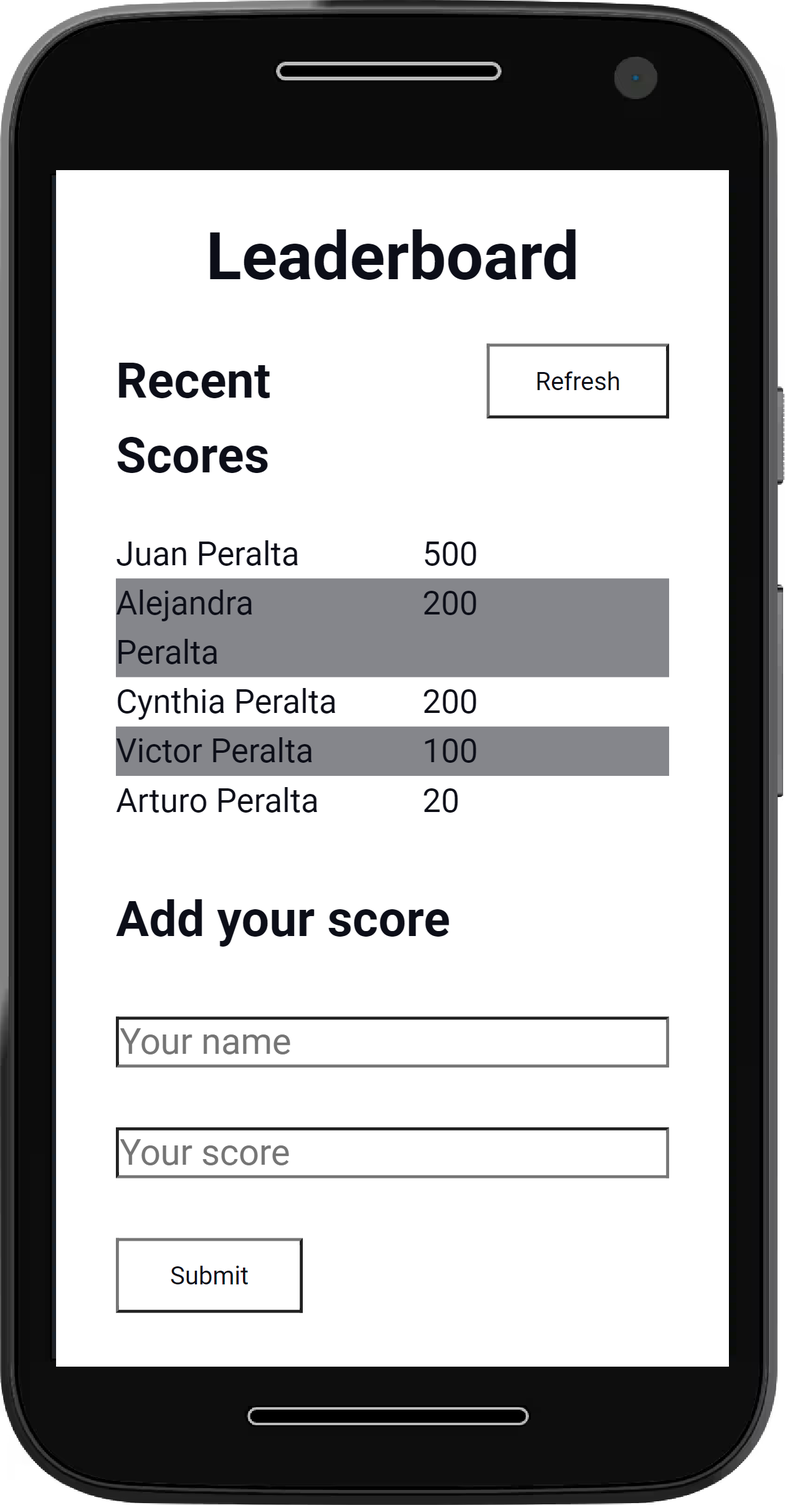
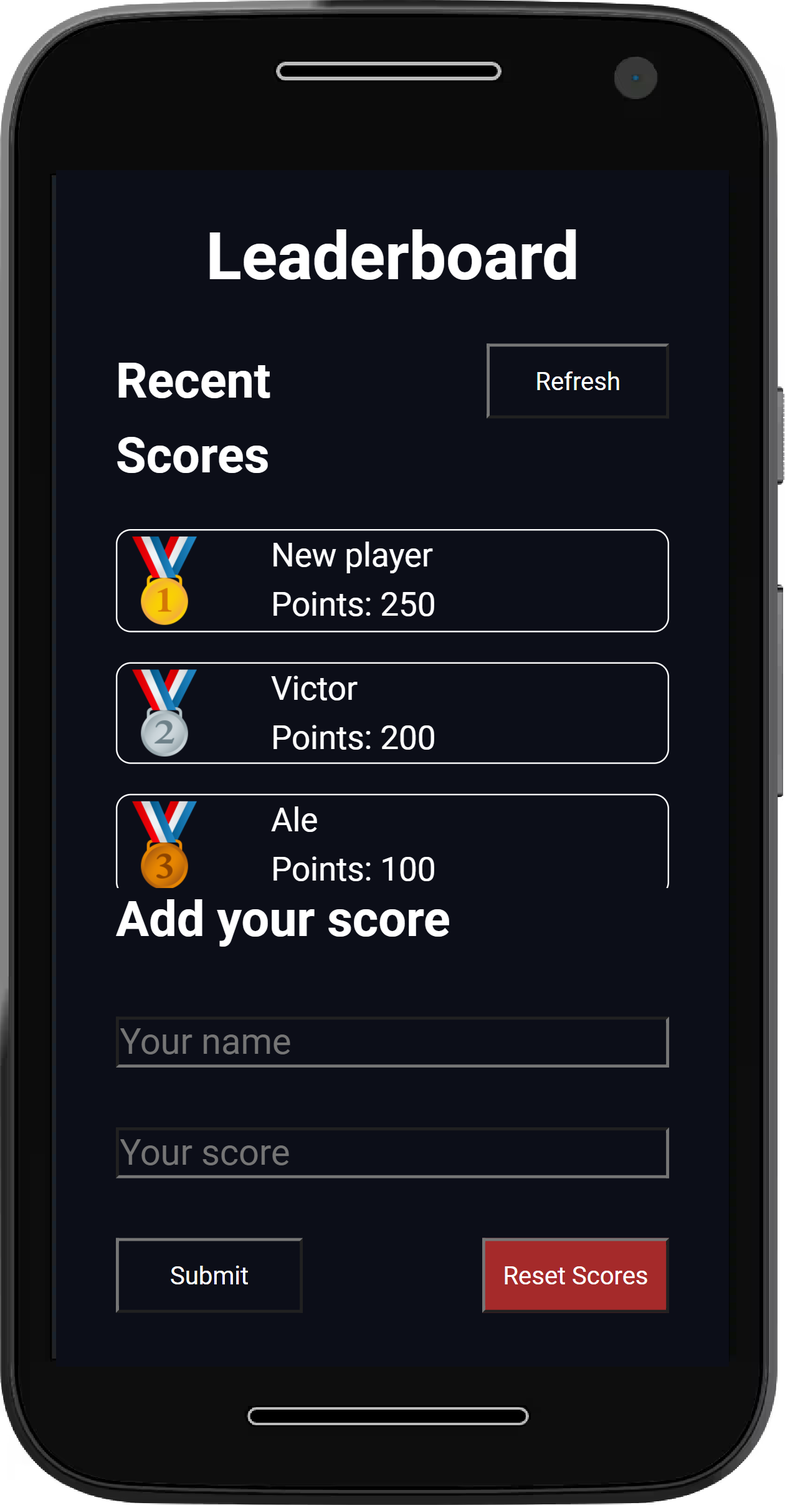
Add reset scores button functionality.
Update readme

modified:   desktop.png
modified:   dist/index.html
modified:   dist/main.js
modified:   mobile.png
modified:   src/app.js
modified:   src/dataProvider.js
modified:   src/index.css
modified:   src/index.html
modified:   tablet.png

diff --git a/dist/main.js b/dist/main.js
@@ -16,7 +16,7 @@
   \*************************************************************/
 /***/ ((module, __webpack_exports__, __webpack_require__) => {
 
-eval("__webpack_require__.r(__webpack_exports__);\n/* harmony export */ __webpack_require__.d(__webpack_exports__, {\n/* harmony export */   \"default\": () => (__WEBPACK_DEFAULT_EXPORT__)\n/* harmony export */ });\n/* harmony import */ var _node_modules_css_loader_dist_runtime_noSourceMaps_js__WEBPACK_IMPORTED_MODULE_0__ = __webpack_require__(/*! ../node_modules/css-loader/dist/runtime/noSourceMaps.js */ \"./node_modules/css-loader/dist/runtime/noSourceMaps.js\");\n/* harmony import */ var _node_modules_css_loader_dist_runtime_noSourceMaps_js__WEBPACK_IMPORTED_MODULE_0___default = /*#__PURE__*/__webpack_require__.n(_node_modules_css_loader_dist_runtime_noSourceMaps_js__WEBPACK_IMPORTED_MODULE_0__);\n/* harmony import */ var _node_modules_css_loader_dist_runtime_api_js__WEBPACK_IMPORTED_MODULE_1__ = __webpack_require__(/*! ../node_modules/css-loader/dist/runtime/api.js */ \"./node_modules/css-loader/dist/runtime/api.js\");\n/* harmony import */ var _node_modules_css_loader_dist_runtime_api_js__WEBPACK_IMPORTED_MODULE_1___default = /*#__PURE__*/__webpack_require__.n(_node_modules_css_loader_dist_runtime_api_js__WEBPACK_IMPORTED_MODULE_1__);\n// Imports\n\n\nvar ___CSS_LOADER_EXPORT___ = _node_modules_css_loader_dist_runtime_api_js__WEBPACK_IMPORTED_MODULE_1___default()((_node_modules_css_loader_dist_runtime_noSourceMaps_js__WEBPACK_IMPORTED_MODULE_0___default()));\n___CSS_LOADER_EXPORT___.push([module.id, \"@import url(https://fonts.googleapis.com/css2?family=Roboto:ital,wght@0,300;0,400;0,500;0,700;1,400;1,500&display=swap);\"]);\n// Module\n___CSS_LOADER_EXPORT___.push([module.id, \"/*\\n  Reset code\\n*/\\n*,\\n*::before,\\n*::after {\\n  margin: 0;\\n  padding: 0;\\n  box-sizing: border-box;\\n}\\n\\nbody {\\n  font-family: Roboto, Arial, Helvetica, sans-serif;\\n  font-size: 1.1rem;\\n  line-height: 1.5;\\n  min-height: 90vh;\\n}\\n\\nbody,\\nh1,\\nh2,\\nh3,\\nh4,\\nh5,\\nh6,\\np,\\nul,\\nli {\\n  margin: 0;\\n  padding: 0;\\n}\\n\\nbutton,\\ninput {\\n  font-family: inherit;\\n  background-color: inherit;\\n  color: inherit;\\n}\\n\\n/*\\n  Custom properties\\n*/\\n:root {\\n  --clr-dark: 230 35% 7%;\\n  --clr-light: 231 77% 90%;\\n  --clr-white: 0 0% 100%;\\n}\\n\\n/*\\n  colors\\n*/\\n.bg-dark {\\n  background-color: hsl(var(--clr-dark));\\n}\\n\\n.bg-light {\\n  background-color: hsl(var(--clr-light));\\n}\\n\\n.bg-white {\\n  background-color: hsl(var(--clr-white));\\n}\\n\\n.color-dark {\\n  color: hsl(var(--clr-dark));\\n}\\n\\n.color-light {\\n  color: hsl(var(--clr-light));\\n}\\n\\n.color-white {\\n  color: hsl(var(--clr-white));\\n}\\n\\nh1 {\\n  margin-top: 20px;\\n  margin-bottom: 20px;\\n}\\n\\n.round-border-light {\\n  border: 1px solid hsl(var(--clr-white));\\n  border-radius: 8px;\\n}\\n\\n.round-border-dark {\\n  border: 1px solid hsl(var(--clr-dark));\\n  border-radius: 8px;\\n}\\n\\n#score-container {\\n  margin-top: 20px;\\n  max-height:60vh;\\n  scroll-behavior: auto;\\n  overflow-y: auto;\\n}\\n\\n.score-row {\\n  width: 100%;\\n}\\n\\nbutton {\\n  width: 100px;\\n  height: 40px;\\n  padding: 8px;\\n}\\n\\n.score-row:nth-child(even) {\\n  background-color: hsl(var(--clr-dark) /0.5);\\n}\\n\\n.main-container {\\n  padding-inline: 2rem;\\n  margin-inline: auto;\\n  max-width: 60rem;\\n}\\n\\n.flex {\\n  display: flex;\\n  gap: var(--gap, 2rem);\\n}\\n\\n.grid {\\n  display: grid;\\n  gap: var(--gap, 1rem);\\n}\\n\\n.text-center {\\n  text-align: center;\\n}\\n\\n.column-direction {\\n  flex-direction: column;\\n}\\n\\n.align-center {\\n  align-items: center;\\n}\\n.space-around {\\n  justify-content: space-around;\\n}\\n\\n.section {\\n  width: 100%;\\n  max-height: 100vh;\\n  margin-inline: auto;\\n}\\n\\n.wrap {\\n  flex-wrap: wrap;\\n}\\n\\n.flex-1 {\\n  flex: 1;\\n}\\n\\n.flex-2 {\\n  flex: 2;\\n}\\n\\ninput {\\n  font-size: 1.2rem;\\n}\\n\\n.recent-scores {\\n  max-height: 40vh;\\n}\\n\\n.input-score {\\n  max-height: 40vh;\\n}\\n\\n.box-border {\\n  border-radius: 8px;\\n  border: 2px solid hsl(var(--clr-light));\\n}\\n\\n.hidden {\\n  display: none;\\n}\\n\\nbutton:hover {\\n  background-color: hsl(var(--clr-dark) /0.6);\\n}\\n\\n@media (max-width: 360px) {\\n  .input-score {\\n    width: 100%;\\n    max-height: 40vh;\\n  }\\n\\n  #score-container {\\n    height: 30vh;\\n  }\\n}\\n\\n@media (orientation: landscape) {\\n  .section {\\n    width: 45%;\\n    min-height: 80vh;\\n  }\\n\\n  .main-container {\\n    width: 100%;\\n    margin-inline: auto;\\n    min-height: 80vh;\\n  }\\n\\n  .score-container {\\n    height: 80%;\\n    scroll-behavior: auto;\\n    overflow-y: auto;\\n  }\\n}\\n\\n@media (max-height: 360px) {\\n  .score-container {\\n    height: 35vh;\\n  }\\n}\\n\", \"\"]);\n// Exports\n/* harmony default export */ const __WEBPACK_DEFAULT_EXPORT__ = (___CSS_LOADER_EXPORT___);\n\n\n//# sourceURL=webpack://webpacktemplate/./src/index.css?./node_modules/css-loader/dist/cjs.js");
+eval("__webpack_require__.r(__webpack_exports__);\n/* harmony export */ __webpack_require__.d(__webpack_exports__, {\n/* harmony export */   \"default\": () => (__WEBPACK_DEFAULT_EXPORT__)\n/* harmony export */ });\n/* harmony import */ var _node_modules_css_loader_dist_runtime_noSourceMaps_js__WEBPACK_IMPORTED_MODULE_0__ = __webpack_require__(/*! ../node_modules/css-loader/dist/runtime/noSourceMaps.js */ \"./node_modules/css-loader/dist/runtime/noSourceMaps.js\");\n/* harmony import */ var _node_modules_css_loader_dist_runtime_noSourceMaps_js__WEBPACK_IMPORTED_MODULE_0___default = /*#__PURE__*/__webpack_require__.n(_node_modules_css_loader_dist_runtime_noSourceMaps_js__WEBPACK_IMPORTED_MODULE_0__);\n/* harmony import */ var _node_modules_css_loader_dist_runtime_api_js__WEBPACK_IMPORTED_MODULE_1__ = __webpack_require__(/*! ../node_modules/css-loader/dist/runtime/api.js */ \"./node_modules/css-loader/dist/runtime/api.js\");\n/* harmony import */ var _node_modules_css_loader_dist_runtime_api_js__WEBPACK_IMPORTED_MODULE_1___default = /*#__PURE__*/__webpack_require__.n(_node_modules_css_loader_dist_runtime_api_js__WEBPACK_IMPORTED_MODULE_1__);\n// Imports\n\n\nvar ___CSS_LOADER_EXPORT___ = _node_modules_css_loader_dist_runtime_api_js__WEBPACK_IMPORTED_MODULE_1___default()((_node_modules_css_loader_dist_runtime_noSourceMaps_js__WEBPACK_IMPORTED_MODULE_0___default()));\n___CSS_LOADER_EXPORT___.push([module.id, \"@import url(https://fonts.googleapis.com/css2?family=Roboto:ital,wght@0,300;0,400;0,500;0,700;1,400;1,500&display=swap);\"]);\n// Module\n___CSS_LOADER_EXPORT___.push([module.id, \"/*\\n  Reset code\\n*/\\n*,\\n*::before,\\n*::after {\\n  margin: 0;\\n  padding: 0;\\n  box-sizing: border-box;\\n}\\n\\nbody {\\n  font-family: Roboto, Arial, Helvetica, sans-serif;\\n  font-size: 1.1rem;\\n  line-height: 1.5;\\n  min-height: 90vh;\\n}\\n\\nbody,\\nh1,\\nh2,\\nh3,\\nh4,\\nh5,\\nh6,\\np,\\nul,\\nli {\\n  margin: 0;\\n  padding: 0;\\n}\\n\\nbutton,\\ninput {\\n  font-family: inherit;\\n  background-color: inherit;\\n  color: inherit;\\n}\\n\\n/*\\n  Custom properties\\n*/\\n:root {\\n  --clr-dark: 230 35% 7%;\\n  --clr-light: 231 77% 90%;\\n  --clr-white: 0 0% 100%;\\n}\\n\\n/*\\n  colors\\n*/\\n.bg-dark {\\n  background-color: hsl(var(--clr-dark));\\n}\\n\\n.bg-light {\\n  background-color: hsl(var(--clr-light));\\n}\\n\\n.bg-white {\\n  background-color: hsl(var(--clr-white));\\n}\\n\\n.color-dark {\\n  color: hsl(var(--clr-dark));\\n}\\n\\n.color-light {\\n  color: hsl(var(--clr-light));\\n}\\n\\n.color-white {\\n  color: hsl(var(--clr-white));\\n}\\n\\nh1 {\\n  margin-top: 20px;\\n  margin-bottom: 20px;\\n}\\n\\n.round-border-light {\\n  border: 1px solid hsl(var(--clr-white));\\n  border-radius: 8px;\\n}\\n\\n.round-border-dark {\\n  border: 1px solid hsl(var(--clr-dark));\\n  border-radius: 8px;\\n}\\n\\n#score-container {\\n  margin-top: 20px;\\n  max-height: 60vh;\\n  scroll-behavior: auto;\\n  overflow-y: auto;\\n}\\n\\n.score-row {\\n  width: 100%;\\n}\\n\\nbutton {\\n  width: 100px;\\n  height: 40px;\\n  padding: 8px;\\n}\\n\\n.score-row:nth-child(even) {\\n  background-color: hsl(var(--clr-dark) /0.5);\\n}\\n\\n.main-container {\\n  padding-inline: 2rem;\\n  margin-inline: auto;\\n  max-width: 60rem;\\n}\\n\\n.flex {\\n  display: flex;\\n  gap: var(--gap, 2rem);\\n}\\n\\n.grid {\\n  display: grid;\\n  gap: var(--gap, 1rem);\\n}\\n\\n.text-center {\\n  text-align: center;\\n}\\n\\n.column-direction {\\n  flex-direction: column;\\n}\\n\\n.align-center {\\n  align-items: center;\\n}\\n\\n.space-around {\\n  justify-content: space-around;\\n}\\n\\n.button-danger {\\n  background-color: brown;\\n  color: white;\\n}\\n\\n.section {\\n  width: 100%;\\n  max-height: 100vh;\\n  margin-inline: auto;\\n}\\n\\n.wrap {\\n  flex-wrap: wrap;\\n}\\n\\n.flex-1 {\\n  flex: 1;\\n}\\n\\n.flex-2 {\\n  flex: 2;\\n}\\n\\ninput {\\n  font-size: 1.2rem;\\n}\\n\\n.recent-scores {\\n  max-height: 40vh;\\n}\\n\\n.input-score {\\n  max-height: 40vh;\\n}\\n\\n.box-border {\\n  border-radius: 8px;\\n  border: 2px solid hsl(var(--clr-light));\\n}\\n\\n.hidden {\\n  display: none;\\n}\\n\\nbutton:hover {\\n  background-color: hsl(var(--clr-dark) /0.6);\\n}\\n\\n@media (max-width: 360px) {\\n  .input-score {\\n    width: 100%;\\n    max-height: 40vh;\\n  }\\n\\n  #score-container {\\n    height: 30vh;\\n  }\\n}\\n\\n@media (orientation: landscape) {\\n  .section {\\n    width: 45%;\\n    min-height: 80vh;\\n  }\\n\\n  .main-container {\\n    width: 100%;\\n    margin-inline: auto;\\n    min-height: 80vh;\\n  }\\n\\n  .score-container {\\n    height: 80%;\\n    scroll-behavior: auto;\\n    overflow-y: auto;\\n  }\\n}\\n\\n@media (max-height: 360px) {\\n  .score-container {\\n    height: 35vh;\\n  }\\n}\\n\", \"\"]);\n// Exports\n/* harmony default export */ const __WEBPACK_DEFAULT_EXPORT__ = (___CSS_LOADER_EXPORT___);\n\n\n//# sourceURL=webpack://webpacktemplate/./src/index.css?./node_modules/css-loader/dist/cjs.js");
 
 /***/ }),
 
@@ -116,7 +116,7 @@ eval("\n\n/* istanbul ignore next  */\nfunction styleTagTransform(css, styleElem
   \********************/
 /***/ ((__unused_webpack_module, __webpack_exports__, __webpack_require__) => {
 
-eval("__webpack_require__.r(__webpack_exports__);\n/* harmony export */ __webpack_require__.d(__webpack_exports__, {\n/* harmony export */   \"default\": () => (__WEBPACK_DEFAULT_EXPORT__)\n/* harmony export */ });\n/* harmony import */ var _dataProvider_js__WEBPACK_IMPORTED_MODULE_0__ = __webpack_require__(/*! ./dataProvider.js */ \"./src/dataProvider.js\");\n/* harmony import */ var _assets_first_png__WEBPACK_IMPORTED_MODULE_1__ = __webpack_require__(/*! ./assets/first.png */ \"./src/assets/first.png\");\n/* harmony import */ var _assets_second_png__WEBPACK_IMPORTED_MODULE_2__ = __webpack_require__(/*! ./assets/second.png */ \"./src/assets/second.png\");\n/* harmony import */ var _assets_third_png__WEBPACK_IMPORTED_MODULE_3__ = __webpack_require__(/*! ./assets/third.png */ \"./src/assets/third.png\");\n/* harmony import */ var _assets_noplace_png__WEBPACK_IMPORTED_MODULE_4__ = __webpack_require__(/*! ./assets/noplace.png */ \"./src/assets/noplace.png\");\n\n\n\n\n\nclass App {\n  scoreList = [];\n\n  constructor() {\n    this.dataProvider = new _dataProvider_js__WEBPACK_IMPORTED_MODULE_0__[\"default\"]();\n  }\n\n  async getDataFromFile() {\n    this.scoreList = await this.dataProvider.getScores();\n  }\n\n  async updateData() {\n    const message = document.getElementById('message');\n    message.textContent = 'Updating data...';\n    message.classList.remove('hidden');\n    this.getDataFromFile().then(() => {\n      document.getElementById('message').classList.add('hidden');\n      this.updateList();\n    });\n  }\n\n  updateList() {\n    const scoresContainer = document.getElementById('score-container');\n    scoresContainer.innerHTML = '';\n    let taskListHtml = '';\n    if (this.scoreList.length > 0) {\n      this.scoreList.sort((first, second) => {\n        if (first.score < second.score) return 1;\n        if (first.score > second.score) return -1;\n        return 0;\n      });\n    }\n    let position = 1;\n    let lastScore = 0;\n    let index = 0;\n    this.scoreList.forEach((task) => {\n      let imageToUse = '';\n      if (index === 0) position = 1;\n      else if (lastScore > task.score) position += 1;\n      if (position === 1) imageToUse = _assets_first_png__WEBPACK_IMPORTED_MODULE_1__;\n      else if (position === 2) imageToUse = _assets_second_png__WEBPACK_IMPORTED_MODULE_2__;\n      else if (position === 3) imageToUse = _assets_third_png__WEBPACK_IMPORTED_MODULE_3__;\n      else imageToUse = _assets_noplace_png__WEBPACK_IMPORTED_MODULE_4__;\n      taskListHtml += `\n      <div class=\"score-card flex round-border-light align-center\">\n              <img src=${imageToUse} alt=\"\" width=\"50\" height=\"50\" />\n              <div>\n                <p>${task.user}</p>\n                <p>Points: ${task.score}</p>\n              </div>\n      </div>`;\n      lastScore = task.score;\n      index += 1;\n    });\n    scoresContainer.innerHTML = taskListHtml;\n  }\n\n  async addScore(user, score) {\n    const message = document.getElementById('message');\n    message.textContent = 'Sending score...';\n    message.classList.remove('hidden');\n    const result = await this.dataProvider.putScore(user, score);\n    if (result) {\n      message.classList.add('hidden');\n      this.scoreList.push({ user, score: Number(score) });\n      this.updateList();\n    } else {\n      message.textContent = 'Unable to update the score';\n      setTimeout(() => {\n        document.getElementById('message').classList.add('hidden');\n      }, 1000);\n    }\n  }\n\n  processInput() {\n    const user = document.getElementById('user');\n    const score = document.getElementById('score');\n    if (!user.checkValidity()) {\n      user.reportValidity();\n      return;\n    }\n    if (!score.checkValidity()) {\n      score.reportValidity();\n      return;\n    }\n    this.addScore(user.value, score.value);\n    this.updateList();\n    user.value = '';\n    score.value = '';\n    user.focus();\n  }\n\n  addListeners() {\n    document.getElementById('submit').addEventListener('click', () => {\n      this.processInput();\n    });\n    document.getElementById('score').addEventListener('keypress', (e) => {\n      if (e.key === 'Enter') this.processInput();\n    });\n    document.getElementById('refresh').addEventListener('click', () => {\n      this.updateData();\n    });\n  }\n}\n\n/* harmony default export */ const __WEBPACK_DEFAULT_EXPORT__ = (App);\n\n//# sourceURL=webpack://webpacktemplate/./src/app.js?");
+eval("__webpack_require__.r(__webpack_exports__);\n/* harmony export */ __webpack_require__.d(__webpack_exports__, {\n/* harmony export */   \"default\": () => (__WEBPACK_DEFAULT_EXPORT__)\n/* harmony export */ });\n/* harmony import */ var _dataProvider_js__WEBPACK_IMPORTED_MODULE_0__ = __webpack_require__(/*! ./dataProvider.js */ \"./src/dataProvider.js\");\n/* harmony import */ var _assets_first_png__WEBPACK_IMPORTED_MODULE_1__ = __webpack_require__(/*! ./assets/first.png */ \"./src/assets/first.png\");\n/* harmony import */ var _assets_second_png__WEBPACK_IMPORTED_MODULE_2__ = __webpack_require__(/*! ./assets/second.png */ \"./src/assets/second.png\");\n/* harmony import */ var _assets_third_png__WEBPACK_IMPORTED_MODULE_3__ = __webpack_require__(/*! ./assets/third.png */ \"./src/assets/third.png\");\n/* harmony import */ var _assets_noplace_png__WEBPACK_IMPORTED_MODULE_4__ = __webpack_require__(/*! ./assets/noplace.png */ \"./src/assets/noplace.png\");\n\n\n\n\n\n\nclass App {\n  scoreList = [];\n\n  constructor() {\n    this.dataProvider = new _dataProvider_js__WEBPACK_IMPORTED_MODULE_0__[\"default\"]();\n  }\n\n  async getDataFromProvider() {\n    this.scoreList = await this.dataProvider.getScores();\n  }\n\n  async updateData() {\n    const message = document.getElementById('message');\n    message.textContent = 'Updating data...';\n    message.classList.remove('hidden');\n    this.getDataFromProvider().then(() => {\n      document.getElementById('message').classList.add('hidden');\n      this.updateList();\n    });\n  }\n\n  updateList() {\n    const scoresContainer = document.getElementById('score-container');\n    scoresContainer.innerHTML = '';\n    let taskListHtml = '';\n    if (this.scoreList.length > 0) {\n      this.scoreList.sort((first, second) => {\n        if (first.score < second.score) return 1;\n        if (first.score > second.score) return -1;\n        return 0;\n      });\n    }\n    let position = 1;\n    let lastScore = 0;\n    let index = 0;\n    this.scoreList.forEach((task) => {\n      let imageToUse = '';\n      if (index === 0) position = 1;\n      else if (lastScore > task.score) position += 1;\n      if (position === 1) imageToUse = _assets_first_png__WEBPACK_IMPORTED_MODULE_1__;\n      else if (position === 2) imageToUse = _assets_second_png__WEBPACK_IMPORTED_MODULE_2__;\n      else if (position === 3) imageToUse = _assets_third_png__WEBPACK_IMPORTED_MODULE_3__;\n      else imageToUse = _assets_noplace_png__WEBPACK_IMPORTED_MODULE_4__;\n      taskListHtml += `\n      <div class=\"score-card flex round-border-light align-center\">\n              <img src=${imageToUse} alt=\"\" width=\"50\" height=\"50\" />\n              <div>\n                <p>${task.user}</p>\n                <p>Points: ${task.score}</p>\n              </div>\n      </div>`;\n      lastScore = task.score;\n      index += 1;\n    });\n    scoresContainer.innerHTML = taskListHtml;\n  }\n\n  async addScore(user, score) {\n    const message = document.getElementById('message');\n    message.textContent = 'Sending score...';\n    message.classList.remove('hidden');\n    const result = await this.dataProvider.putScore(user, score);\n    if (result) {\n      message.classList.add('hidden');\n      this.scoreList.push({ user, score: Number(score) });\n      this.updateList();\n    } else {\n      message.textContent = 'Unable to update the score';\n      setTimeout(() => {\n        document.getElementById('message').classList.add('hidden');\n      }, 1000);\n    }\n  }\n\n  processInput() {\n    const user = document.getElementById('user');\n    const score = document.getElementById('score');\n    if (!user.checkValidity()) {\n      user.reportValidity();\n      return;\n    }\n    if (!score.checkValidity()) {\n      score.reportValidity();\n      return;\n    }\n    this.addScore(user.value, score.value);\n    this.updateList();\n    user.value = '';\n    score.value = '';\n    user.focus();\n  }\n\n  addListeners() {\n    document.getElementById('submit').addEventListener('click', () => {\n      this.processInput();\n    });\n    document.getElementById('score').addEventListener('keypress', (e) => {\n      if (e.key === 'Enter') this.processInput();\n    });\n    document.getElementById('refresh').addEventListener('click', () => {\n      this.updateData();\n    });\n    document.getElementById('reset').addEventListener('click', () => {\n      const message = document.getElementById('message');\n      message.textContent = 'Reseting scores...';\n      message.classList.remove('hidden');\n      const newKey = this.dataProvider.getNewGameKey();\n      if (newKey === '') {\n        message.textContent = 'Unable to reset the scores';\n        setTimeout(() => {\n          document.getElementById('message').classList.add('hidden');\n        }, 1000);\n      } else {\n        message.classList.add('hidden');\n        this.dataProvider.getScores();\n        this.updateData();\n      }\n    });\n  }\n}\n\n/* harmony default export */ const __WEBPACK_DEFAULT_EXPORT__ = (App);\n\n//# sourceURL=webpack://webpacktemplate/./src/app.js?");
 
 /***/ }),
 
@@ -126,7 +126,7 @@ eval("__webpack_require__.r(__webpack_exports__);\n/* harmony export */ __webpac
   \*****************************/
 /***/ ((__unused_webpack_module, __webpack_exports__, __webpack_require__) => {
 
-eval("__webpack_require__.r(__webpack_exports__);\n/* harmony export */ __webpack_require__.d(__webpack_exports__, {\n/* harmony export */   \"default\": () => (__WEBPACK_DEFAULT_EXPORT__)\n/* harmony export */ });\nclass DataProvider {\n  initialGameKey = 'BEfD6yAIbHxFQG2vuO7V';\n\n  baseURL = 'https://us-central1-js-capstone-backend.cloudfunctions.net/api/games/';\n\n  /*\n    This function return a promise\n  */\n  async getScores() {\n    const socket = new XMLHttpRequest();\n    socket.open('GET', `${this.baseURL}${this.initialGameKey}/scores`, false);\n    socket.setRequestHeader('Credentials', 'omit');\n    socket.setRequestHeader('Acept', 'application/json');\n    socket.setRequestHeader('Content-Type', 'text/plain');\n    socket.send();\n    if (socket.status === 200) return JSON.parse(socket.response).result;\n    return [];\n  }\n\n  async putScore(user, score) {\n    const socket = new XMLHttpRequest();\n    socket.open('POST', `${this.baseURL}${this.initialGameKey}/scores`, false);\n    socket.setRequestHeader('Credentials', 'omit');\n    socket.setRequestHeader('Acept', 'application/json');\n    socket.setRequestHeader('Content-Type', 'application/json');\n    const body = `{\"user\":\"${user}\", \"score\":${Number(score)}}`;\n    socket.send(body);\n    if (socket.status === 201) {\n      const response = JSON.parse(socket.response).result;\n      if (response === 'Leaderboard score created correctly.') return true;\n      return false;\n    }\n    return false;\n  }\n}\n/* harmony default export */ const __WEBPACK_DEFAULT_EXPORT__ = (DataProvider);\n\n//# sourceURL=webpack://webpacktemplate/./src/dataProvider.js?");
+eval("__webpack_require__.r(__webpack_exports__);\n/* harmony export */ __webpack_require__.d(__webpack_exports__, {\n/* harmony export */   \"default\": () => (__WEBPACK_DEFAULT_EXPORT__)\n/* harmony export */ });\nclass DataProvider {\n  baseURL = 'https://us-central1-js-capstone-backend.cloudfunctions.net/api/games/';\n\n  initialGameKey = 'BEfD6yAIbHxFQG2vuO7V';\n\n  constructor() {\n    const key = window.localStorage.getItem('GameKey');\n    if (key) this.initialGameKey = key;\n  }\n\n  /*\n    This function return a promise\n  */\n  async getScores() {\n    const socket = new XMLHttpRequest();\n    socket.open('GET', `${this.baseURL}${this.initialGameKey}/scores`, false);\n    socket.setRequestHeader('Credentials', 'omit');\n    socket.setRequestHeader('Acept', 'application/json');\n    socket.setRequestHeader('Content-Type', 'text/plain');\n    socket.send();\n    if (socket.status === 200) return JSON.parse(socket.response).result;\n    return [];\n  }\n\n  getNewGameKey() {\n    const socket = new XMLHttpRequest();\n    socket.open('POST', `${this.baseURL}`, false);\n    socket.setRequestHeader('Credentials', 'omit');\n    socket.setRequestHeader('Acept', 'application/json');\n    socket.setRequestHeader('Content-Type', 'application/json');\n    socket.send(`{ \n      \"name\": \"Victor's Game\" \n    }`);\n    if (socket.status === 201) {\n      const response = JSON.parse(socket.response).result;\n      this.initialGameKey = response.substr(14, 20);\n      window.localStorage.setItem('GameKey', this.initialGameKey);\n      return this.initialGameKey;\n    }\n    return '';\n  }\n\n  async putScore(user, score) {\n    const socket = new XMLHttpRequest();\n    socket.open('POST', `${this.baseURL}${this.initialGameKey}/scores`, false);\n    socket.setRequestHeader('Credentials', 'omit');\n    socket.setRequestHeader('Acept', 'application/json');\n    socket.setRequestHeader('Content-Type', 'application/json');\n    const body = `{\"user\":\"${user}\", \"score\":${Number(score)}}`;\n    socket.send(body);\n    if (socket.status === 201) {\n      const response = JSON.parse(socket.response).result;\n      if (response === 'Leaderboard score created correctly.') return true;\n      return false;\n    }\n    return false;\n  }\n}\n/* harmony default export */ const __WEBPACK_DEFAULT_EXPORT__ = (DataProvider);\n\n//# sourceURL=webpack://webpacktemplate/./src/dataProvider.js?");
 
 /***/ }),
 

diff --git a/src/app.js b/src/app.js
@@ -3,6 +3,7 @@ import First from './assets/first.png';
 import Second from './assets/second.png';
 import Third from './assets/third.png';
 import NoPlace from './assets/noplace.png';
+
 class App {
   scoreList = [];
 
@@ -10,7 +11,7 @@ class App {
     this.dataProvider = new DataProvider();
   }
 
-  async getDataFromFile() {
+  async getDataFromProvider() {
     this.scoreList = await this.dataProvider.getScores();
   }
 
@@ -18,7 +19,7 @@ class App {
     const message = document.getElementById('message');
     message.textContent = 'Updating data...';
     message.classList.remove('hidden');
-    this.getDataFromFile().then(() => {
+    this.getDataFromProvider().then(() => {
       document.getElementById('message').classList.add('hidden');
       this.updateList();
     });
@@ -104,6 +105,22 @@ class App {
     });
     document.getElementById('refresh').addEventListener('click', () => {
       this.updateData();
+    });
+    document.getElementById('reset').addEventListener('click', () => {
+      const message = document.getElementById('message');
+      message.textContent = 'Reseting scores...';
+      message.classList.remove('hidden');
+      const newKey = this.dataProvider.getNewGameKey();
+      if (newKey === '') {
+        message.textContent = 'Unable to reset the scores';
+        setTimeout(() => {
+          document.getElementById('message').classList.add('hidden');
+        }, 1000);
+      } else {
+        message.classList.add('hidden');
+        this.dataProvider.getScores();
+        this.updateData();
+      }
     });
   }
 }

diff --git a/src/dataProvider.js b/src/dataProvider.js
@@ -1,7 +1,12 @@
 class DataProvider {
+  baseURL = 'https://us-central1-js-capstone-backend.cloudfunctions.net/api/games/';
+
   initialGameKey = 'BEfD6yAIbHxFQG2vuO7V';
 
-  baseURL = 'https://us-central1-js-capstone-backend.cloudfunctions.net/api/games/';
+  constructor() {
+    const key = window.localStorage.getItem('GameKey');
+    if (key) this.initialGameKey = key;
+  }
 
   /*
     This function return a promise
@@ -15,6 +20,24 @@ class DataProvider {
     socket.send();
     if (socket.status === 200) return JSON.parse(socket.response).result;
     return [];
+  }
+
+  getNewGameKey() {
+    const socket = new XMLHttpRequest();
+    socket.open('POST', `${this.baseURL}`, false);
+    socket.setRequestHeader('Credentials', 'omit');
+    socket.setRequestHeader('Acept', 'application/json');
+    socket.setRequestHeader('Content-Type', 'application/json');
+    socket.send(`{ 
+      "name": "Victor's Game" 
+    }`);
+    if (socket.status === 201) {
+      const response = JSON.parse(socket.response).result;
+      this.initialGameKey = response.substr(14, 20);
+      window.localStorage.setItem('GameKey', this.initialGameKey);
+      return this.initialGameKey;
+    }
+    return '';
   }
 
   async putScore(user, score) {

diff --git a/dist/index.html b/dist/index.html
@@ -16,8 +16,7 @@
         </div>
         <span class="hidden" id="message">Updating data...</span>
         <div>
-          <div id="score-container" class="grid">
-          </div>
+          <div id="score-container" class="grid"></div>
         </div>
       </section>
       <section class="input-score flex column-direction section">
@@ -36,7 +35,10 @@
           placeholder="Your score"
           required
         />
-        <button type="button" id="submit">Submit</button>
+        <div class="flex space-between">
+          <button type="button" id="submit">Submit</button>
+          <button type="button" id="reset" class="button-danger">Reset Scores</button>
+        </div>
       </section>
     </div>
   </body>

diff --git a/src/index.html b/src/index.html
@@ -16,8 +16,7 @@
         </div>
         <span class="hidden" id="message">Updating data...</span>
         <div>
-          <div id="score-container" class="grid">
-          </div>
+          <div id="score-container" class="grid"></div>
         </div>
       </section>
       <section class="input-score flex column-direction section">
@@ -36,7 +35,10 @@
           placeholder="Your score"
           required
         />
-        <button type="button" id="submit">Submit</button>
+        <div class="flex space-between">
+          <button type="button" id="submit">Submit</button>
+          <button type="button" id="reset" class="button-danger">Reset Scores</button>
+        </div>
       </section>
     </div>
   </body>

diff --git a/src/index.css b/src/index.css
@@ -92,7 +92,7 @@ h1 {
 
 #score-container {
   margin-top: 20px;
-  max-height:60vh;
+  max-height: 60vh;
   scroll-behavior: auto;
   overflow-y: auto;
 }
@@ -138,8 +138,14 @@ button {
 .align-center {
   align-items: center;
 }
+
 .space-around {
   justify-content: space-around;
+}
+
+.button-danger {
+  background-color: brown;
+  color: white;
 }
 
 .section {
